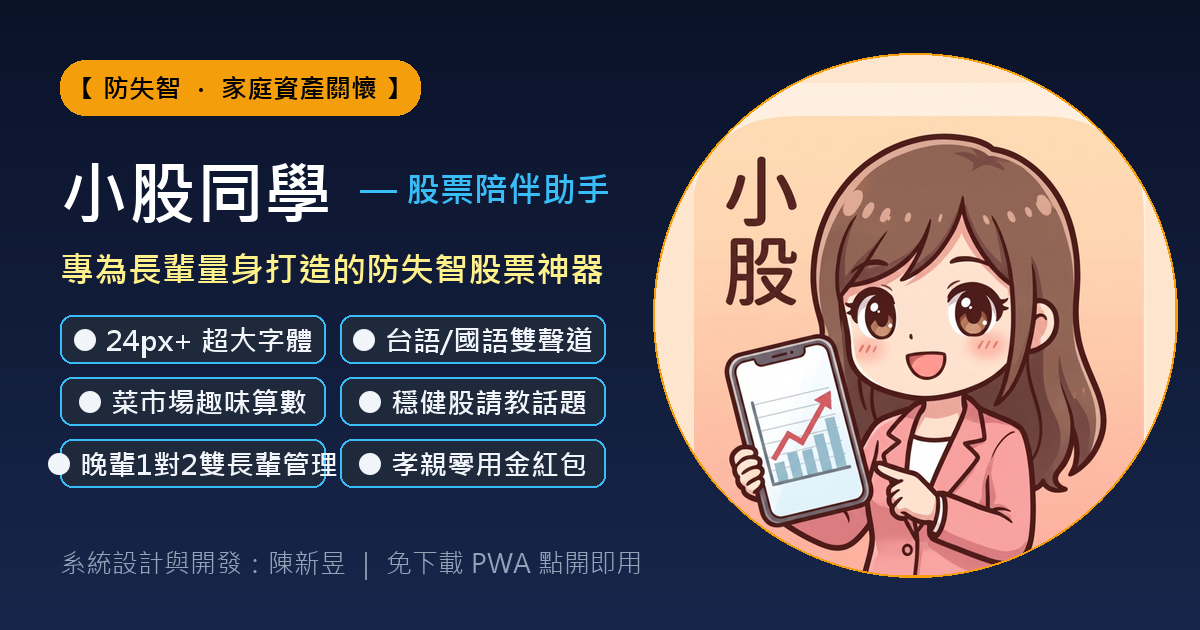
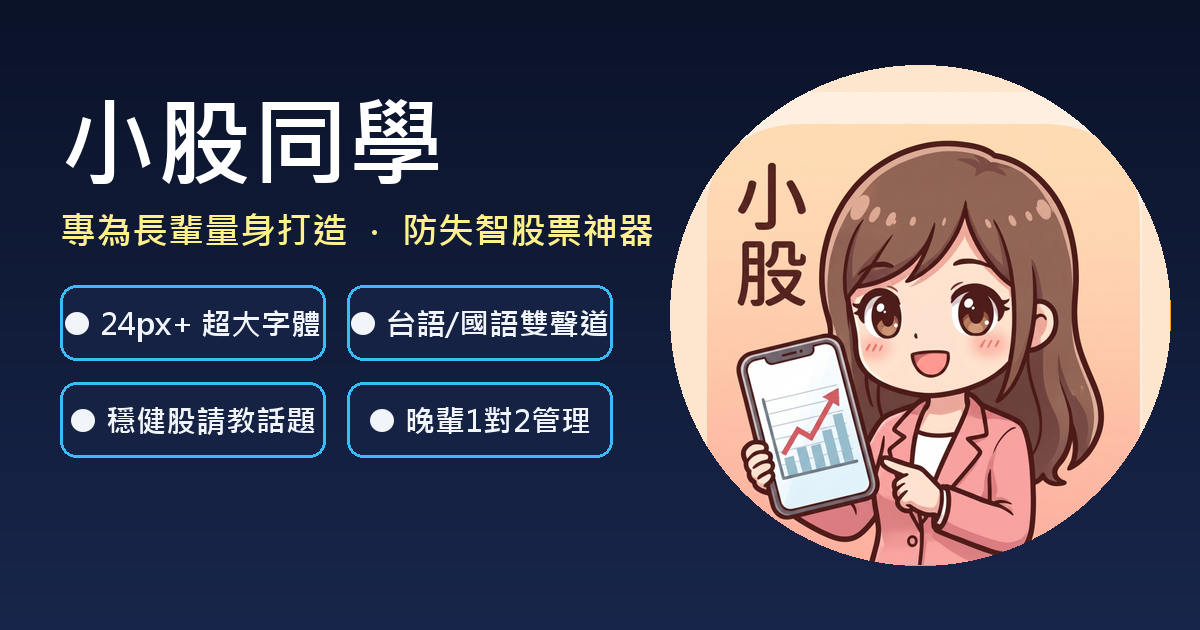
checkpoint: [v1.10] - 極簡化 LINE 分享卡片排版、大幅放大字體與 4 大核心特色膠囊

diff --git a/index.html b/index.html
@@ -7,7 +7,7 @@
   <meta name="description" content="專為長者設計的極簡股票認知訓練與家庭資產關懷 App">
   <meta property="og:title" content="小股同學 - (陳新昱設計)">
   <meta property="og:description" content="防失智炒股神器：大字體、語音陪伴、每日大腦問答、投資建議！">
-  <meta property="og:image" content="https://pod0987183520.github.io/stock/z_img_line.png?v=1.09">
+  <meta property="og:image" content="https://pod0987183520.github.io/stock/z_img_line.png?v=1.10">
   <meta property="og:url" content="https://pod0987183520.github.io/stock/">
   <meta property="og:type" content="website">
 

diff --git a/Checkpoints.md b/Checkpoints.md
@@ -8,6 +8,7 @@
 
 | 版本號 | 快照時間 | 類型 | 核心異動與摘要 | Git Tag |
 | :--- | :--- | :--- | :--- | :--- |
+| **v1.10** | 2026-08-23 13:08 | 視覺優化 (Minor) | 極簡化 1200x630 LINE 分享卡片，移除繁雜膠囊與冗餘文字，將「小股同學」標題與核心特色大幅放大至 96px/30px，強化視覺衝擊力 | `v1.10` |
 | **v1.09** | 2026-08-23 13:03 | 視覺升級 (Minor) | 正式導入使用者指定之粉紅套裝美女營業員小股角色，完成 Android 圓形安全區（文字防裁切）裁切、更新 1200x630 LINE 分享卡片與 PWA 雙尺寸圖示 | `v1.09` |
 | **v1.08** | 2026-08-23 12:38 | 品牌升級 (Minor) | 正式導入小股專屬漫畫版套裝小姐 Logo 頭像、更新 LINE 專屬 1200x630 分享卡片預覽圖 (z_img_line.png) 與 PWA 桌面 App 雙尺寸圖示 (z_img_app_192/512.png) | `v1.08` |
 | **v1.07** | 2026-08-23 12:12 | 功能升級 (Feature) | 新增每 1 分鐘分時跳動偵測、前述詞「開始動了喔！」直觀語音播報庫（上漲/下滑/達標）、今日累積與分時跳動視覺雙標籤、動態播報開關 | `v1.07` |
@@ -22,6 +23,12 @@
 ---
 
 ### 📝 詳細更新日誌
+
+#### [v1.10] - 2026-08-23 13:08
+- **極簡化 LINE 1200x630 分享卡片 (z_img_line.png)**：
+  - 移除頂部黃色膠囊、第二行副標與底部作者小字（作者資訊回歸純文字 Open Graph meta）。
+  - 將特色方框精煉為 4 大核心焦點（24px+ 超大字體、台語/國語雙聲道、穩健股請教話題、晚輩 1 對 2 管理）。
+  - 主標題放大至 96px，文字間距與右側美女頭像達成黃金比例。
 
 #### [v1.09] - 2026-08-23 13:03
 - **粉紅套裝美女營業員形象與安全區優化**：
